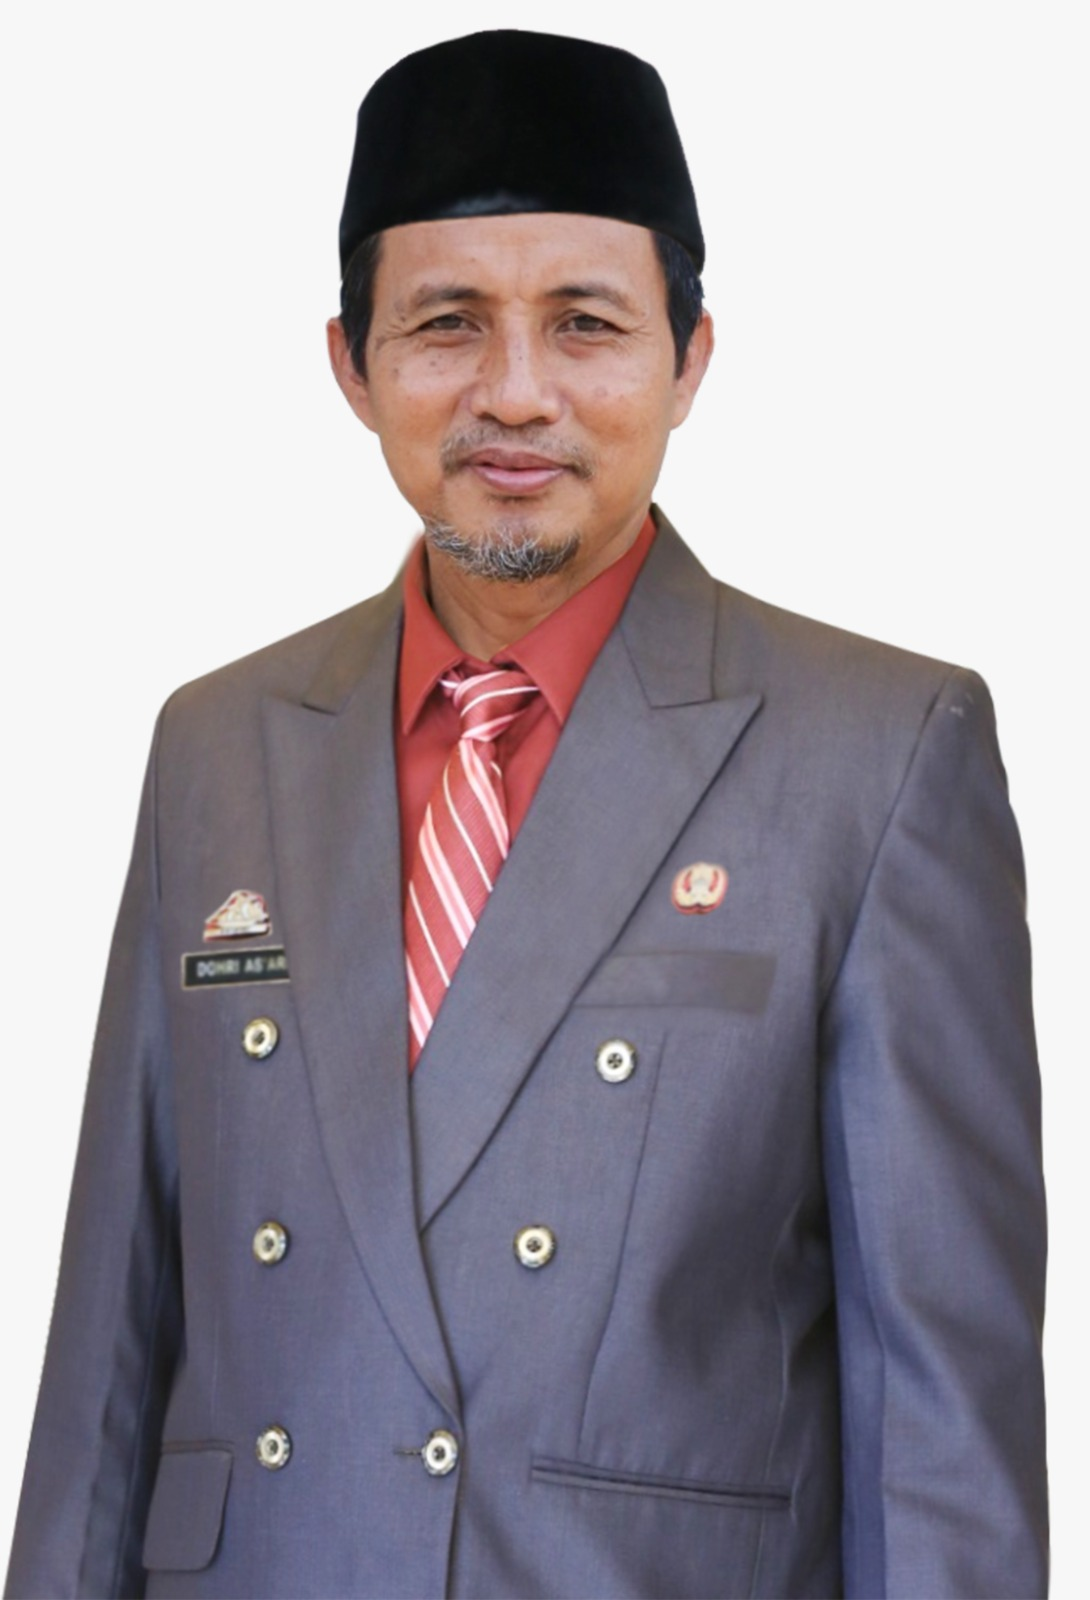
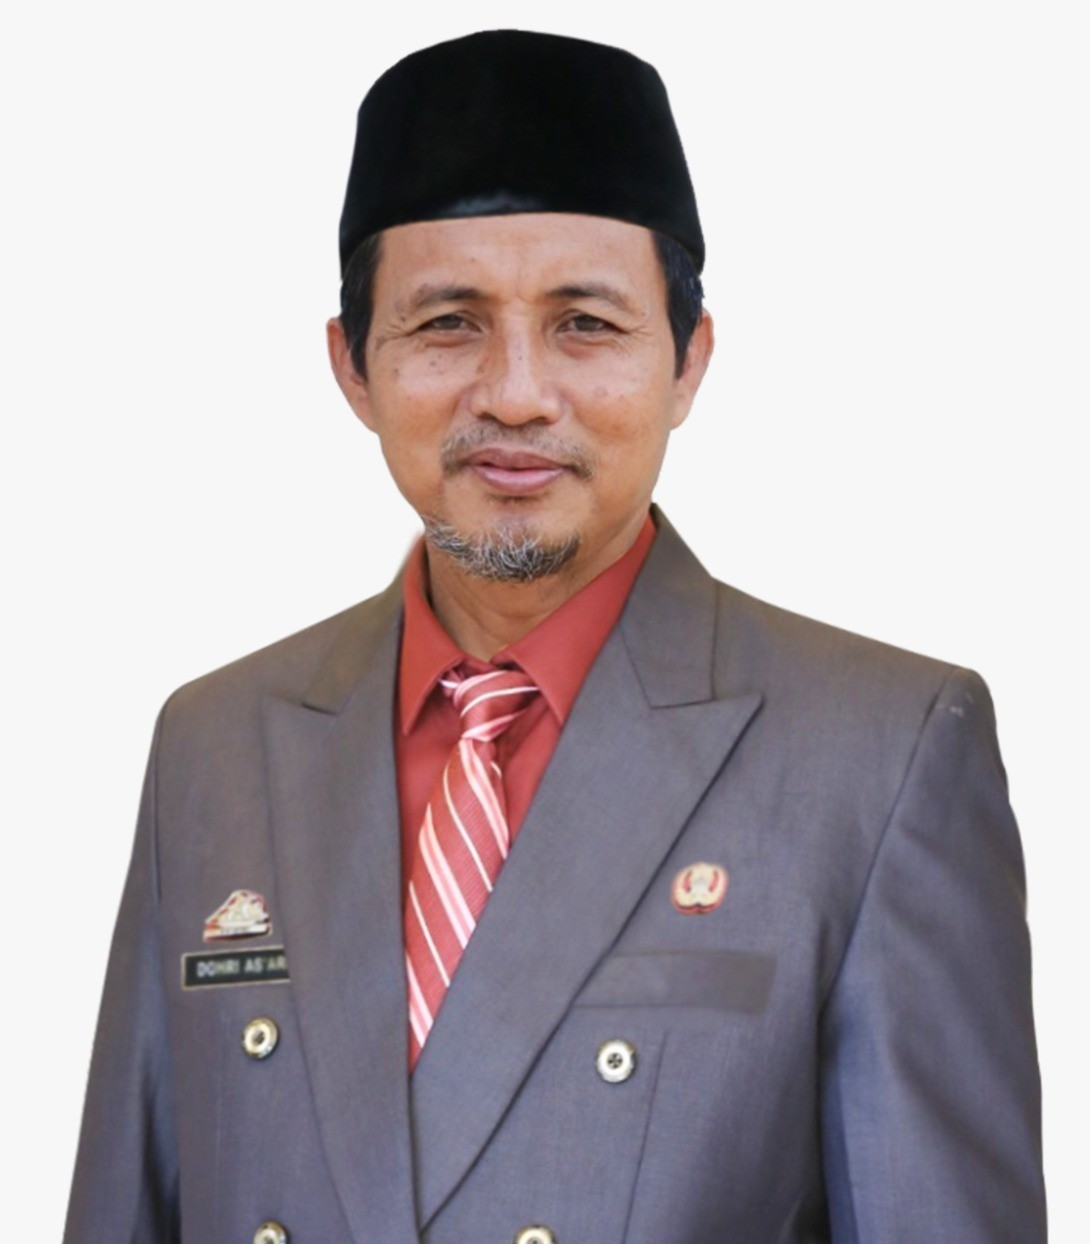
update foto

diff --git a/index.html b/index.html
@@ -94,7 +94,7 @@
             </ul>
 
             <a
-              href="https://api.whatsapp.com/send/?phone=6281243489366&text=Halo%2C+saya+ingin+mendaftar+di+salut+lutim&type=phone_number&app_absent=0"
+              href="https://forms.gle/pcfC36RkrzZm7Yid8"
               class="btn-book btn btn-secondary btn-sm menu-absolute"
               target="_blank"
               id="daftar-navbar"
@@ -143,7 +143,7 @@
                 <p class="mb-0" data-aos="fade-up" data-aos-delay="300">
                   <a
                     target="_blank"
-                    href="https://api.whatsapp.com/send/?phone=6281243489366&text=Halo%2C+saya+ingin+mendaftar+di+salut+lutim&type=phone_number&app_absent=0"
+                    href="https://forms.gle/pcfC36RkrzZm7Yid8"
                     class="btn btn-secondary"
                     >Daftar</a
                   >
@@ -366,7 +366,7 @@
             <p data-aos="fade-up" data-aos-delay="300">
               <a
                 target="_blank"
-                href="https://api.whatsapp.com/send/?phone=6282277916640&text=Halo%2C+saya+ingin+bertanya+tentang+salut+lutim&type=phone_number&app_absent=0"
+                href="https://api.whatsapp.com/send/?phone=6281243489366&text=Halo%2C+saya+ingin+bertanya+tentang+salut+lutim&type=phone_number&app_absent=0"
                 class="btn btn-primary mb-5 mb-lg-0"
                 >Whatsapp CS</a
               >
